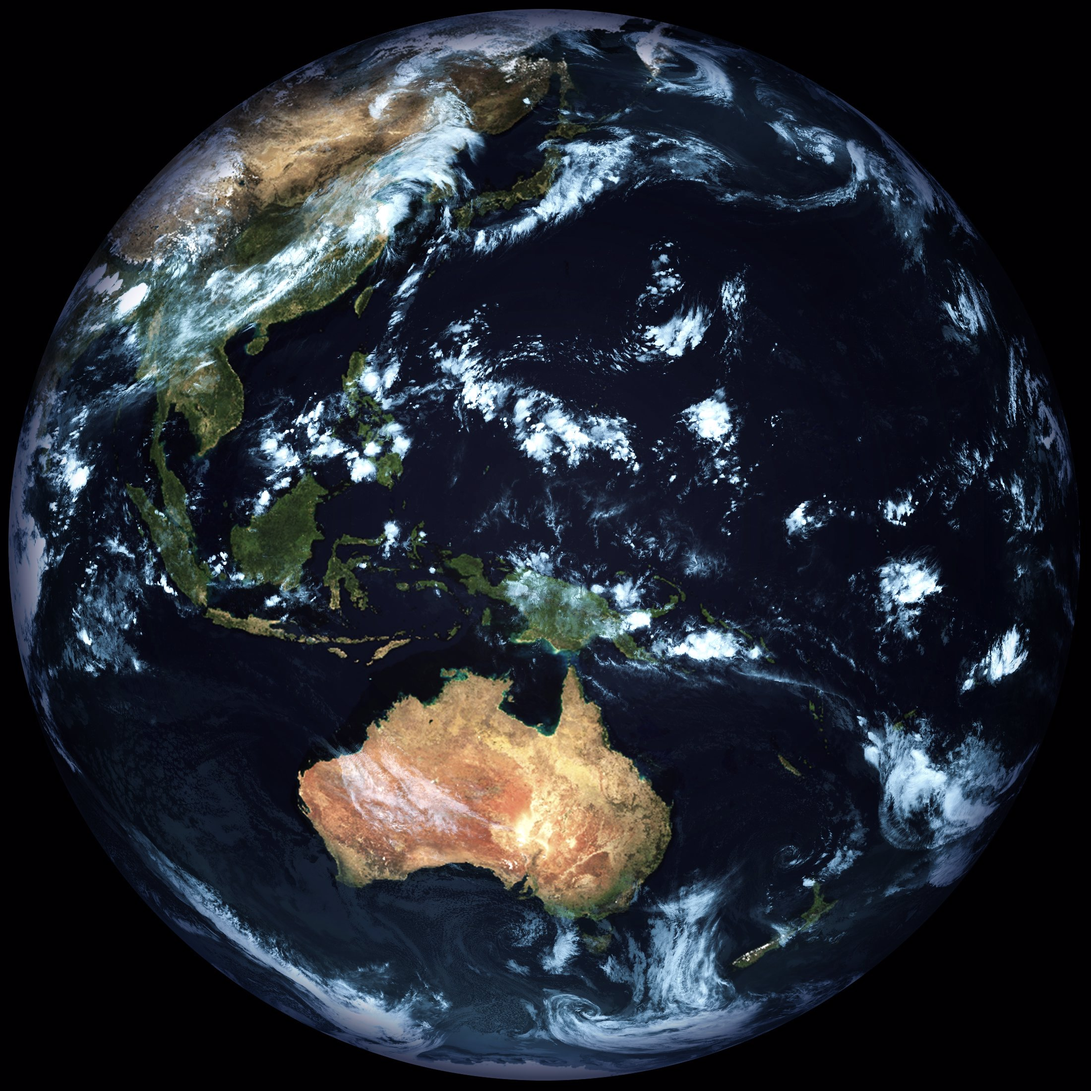
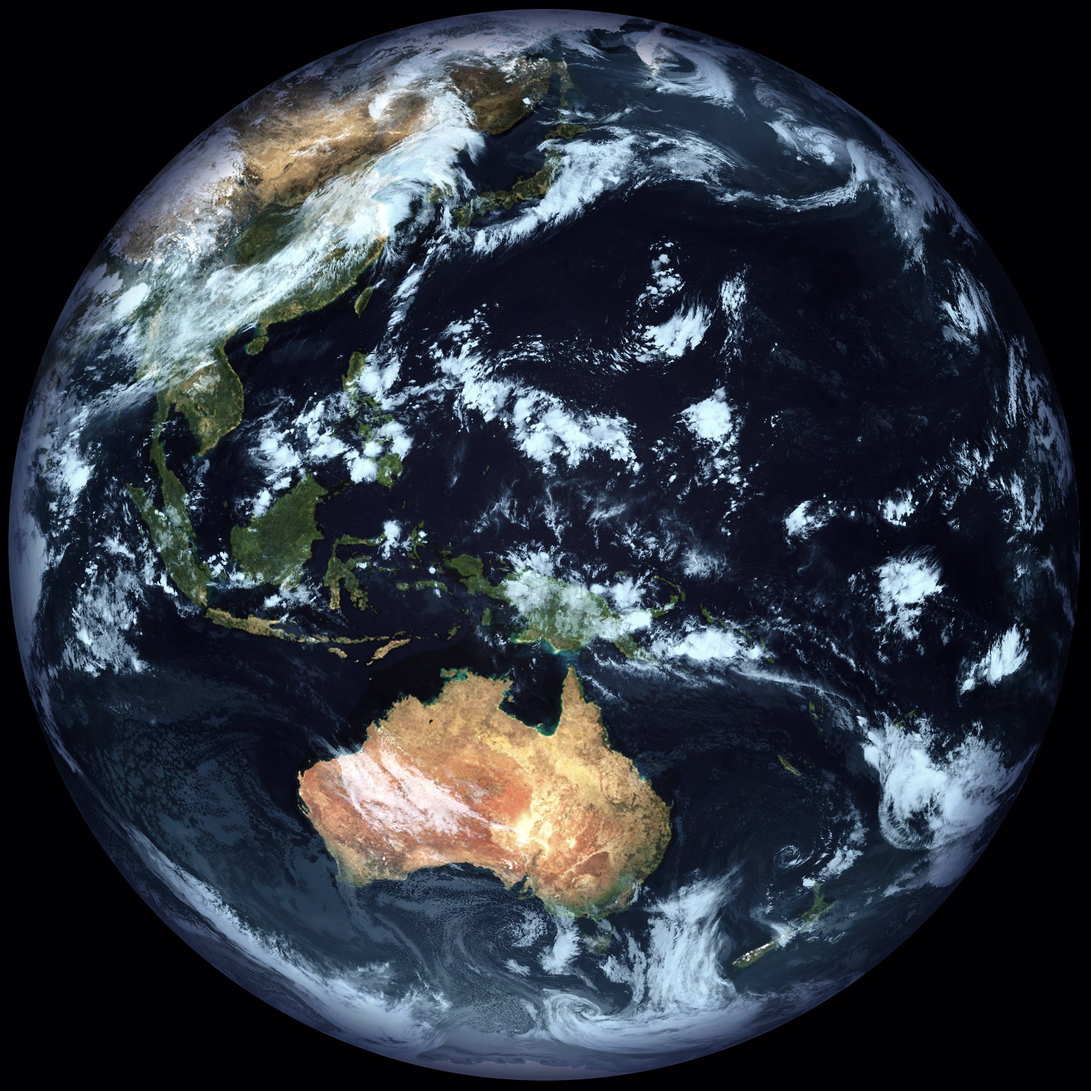
Add histogram equalisation

diff --git a/Sanchez/Services/Compositor.cs b/Sanchez/Services/Compositor.cs
@@ -3,6 +3,7 @@ using Sanchez.Models;
 using SixLabors.ImageSharp;
 using SixLabors.ImageSharp.PixelFormats;
 using SixLabors.ImageSharp.Processing;
+using SixLabors.ImageSharp.Processing.Processors.Normalization;
 using Color = System.Drawing.Color;
 
 namespace Sanchez.Services
@@ -28,7 +29,7 @@ namespace Sanchez.Services
 
         internal static void TintSatelliteImage(this Image satellite, Color tint)
         {
-            var originalSatellite = satellite.Clone(c => { c.HistogramEqualization(); });
+            var originalSatellite = satellite.Clone(c => { c.HistogramEqualization(new HistogramEqualizationOptions { Method = HistogramEqualizationMethod.Global }); });
 
             satellite.Mutate(satelliteContext =>
             {
